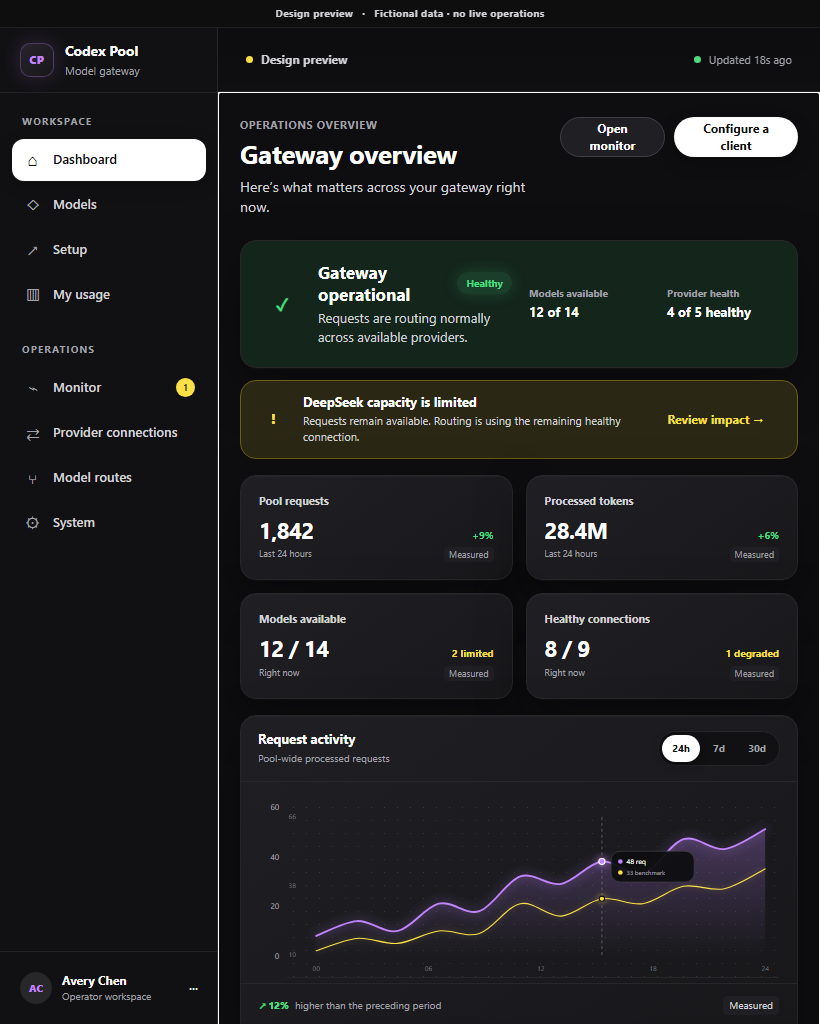
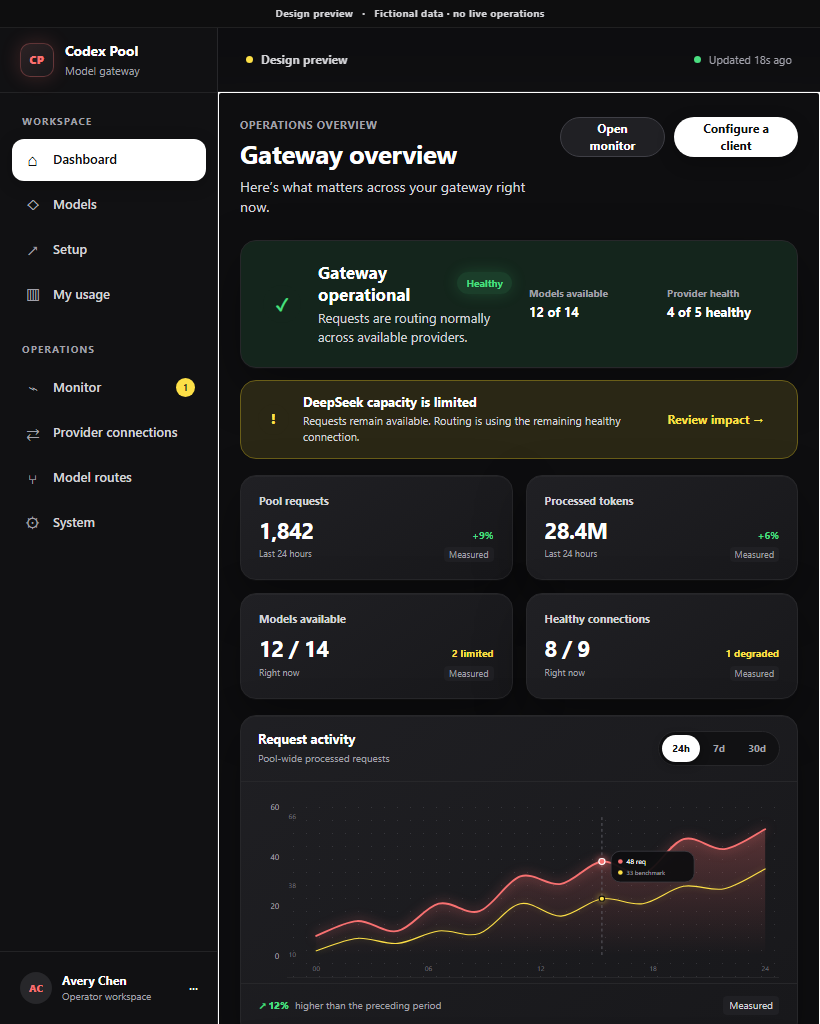
style: replace purple accents with warm red

diff --git a/.product-design/rounds/step-0/primary/styles.css b/.product-design/rounds/step-0/primary/styles.css
@@ -5,26 +5,26 @@
   --bg-canvas: #0e0e10;
   --bg-surface: #18181b;
   --bg-subtle: #202024;
-  --bg-accent: #2a2233;
+  --bg-accent: #311f22;
   --text-primary: #ffffff;
   --text-secondary: #d4d4d8;
   --text-muted: #a1a1aa;
   --border: #27272a;
   --border-strong: #3f3f46;
-  --accent: #c084fc;
-  --accent-hover: #d8b4fe;
+  --accent: #f87171;
+  --accent-hover: #fca5a5;
   --success: #4ade80;
   --success-bg: #14251c;
   --warning: #fde047;
   --warning-bg: #2a2715;
-  --danger: #fb7185;
-  --danger-bg: #30191f;
+  --danger: #ff5c57;
+  --danger-bg: #351718;
   --info: #22d3ee;
   --sidebar: #111113;
   --sidebar-muted: #a1a1aa;
-  --sidebar-active: #27232d;
+  --sidebar-active: #2d2224;
   --shadow: 0 1px 0 rgba(255,255,255,.025), 0 18px 50px rgba(0,0,0,.35);
-  --glow-purple: 0 0 20px rgba(192,132,252,.2);
+  --glow-red: 0 0 20px rgba(248,113,113,.2);
   --glow-green: 0 0 16px rgba(74,222,128,.18);
   --radius: 16px;
   --sidebar-width: 248px;
@@ -64,7 +64,7 @@ body[data-runtime="operator"] .member-only { display: none !important; }
 .sidebar-toggle::after { content: ""; position: absolute; top: 50%; left: 3px; width: 4px; height: 42px; border-radius: 3px; background: #a1a1aa; opacity: 0; transform: translateY(-50%); transition: opacity 120ms ease; }
 .sidebar-toggle:hover::after, .sidebar-toggle:focus-visible::after { opacity: 1; }
 .sidebar-toggle:focus-visible { outline: 3px solid rgba(120,162,255,.58); outline-offset: -1px; }
-.brand-mark { width: 34px; height: 34px; display: grid; place-items: center; border: 1px solid rgba(192,132,252,.3); border-radius: 10px; background: linear-gradient(145deg, #27232d, #18181b); color: #c084fc; box-shadow: var(--glow-purple); font-size: 11px; font-weight: 800; letter-spacing: .06em; }
+.brand-mark { width: 34px; height: 34px; display: grid; place-items: center; border: 1px solid rgba(248,113,113,.3); border-radius: 10px; background: linear-gradient(145deg, #2d2224, #18181b); color: #f87171; box-shadow: var(--glow-red); font-size: 11px; font-weight: 800; letter-spacing: .06em; }
 .brand strong, .brand small { display: block; }
 .brand strong { font-size: 14px; letter-spacing: -.01em; }
 .brand small { margin-top: 1px; color: var(--sidebar-muted); font-size: 11px; }
@@ -100,7 +100,7 @@ body.sidebar-collapsed .nav-count { position: absolute; margin: -25px -29px 0 0;
 body.sidebar-collapsed .user-button { display: flex; justify-content: center; padding: 8px 0; }
 .user-button strong { font-size: 12px; }
 .user-button small { color: var(--sidebar-muted); font-size: 10px; }
-.avatar { width: 32px; height: 32px; display: grid; place-items: center; border: 0; border-radius: 50%; background: #27272a; color: #c084fc; font-size: 10px; font-weight: 800; }
+.avatar { width: 32px; height: 32px; display: grid; place-items: center; border: 0; border-radius: 50%; background: #27272a; color: #f87171; font-size: 10px; font-weight: 800; }
 
 .topbar { position: sticky; top: 28px; z-index: 20; grid-column: 2; height: var(--topbar-height); display: flex; align-items: center; justify-content: space-between; padding: 0 28px; border-bottom: 1px solid var(--border); background: rgba(14,14,16,.88); backdrop-filter: blur(18px); }
 .topbar-context, .topbar-actions, .refresh-state { display: flex; align-items: center; gap: 8px; }
@@ -147,7 +147,7 @@ main { grid-column: 2; min-width: 0; padding: 30px 32px 48px; }
 .focus-readouts strong { margin: 6px 0 2px; font-size: 24px; }
 .focus-readouts small { color: var(--text-secondary); font-size: 9px; }
 .focus-chart { height: 400px; display: flex; align-items: end; gap: 5px; padding: 30px 24px 20px; background-color: rgba(14,14,16,.26); background-image: radial-gradient(circle, rgba(161,161,170,.22) .8px, transparent .9px); background-size: 14px 14px; }
-.focus-chart i, .live-chart i { flex: 1; min-width: 3px; border-radius: 8px 8px 2px 2px; background: linear-gradient(to top, #7e22ce, #c084fc); box-shadow: 0 0 12px rgba(192,132,252,.22); }
+.focus-chart i, .live-chart i { flex: 1; min-width: 3px; border-radius: 8px 8px 2px 2px; background: linear-gradient(to top, #b91c1c, #f87171); box-shadow: 0 0 12px rgba(248,113,113,.22); }
 .secondary-screen-focus > footer { min-height: 48px; display: flex; align-items: center; justify-content: space-between; padding: 0 23px; border-top: 1px solid var(--border); color: var(--text-secondary); font-size: 10px; }
 
 .hero-status { min-height: 102px; display: grid; grid-template-columns: auto minmax(0,1fr) auto; align-items: center; gap: 17px; margin-bottom: 16px; padding: 20px 22px; border: 1px solid #27272a; border-radius: var(--radius); background: #14251c; box-shadow: var(--shadow); }
@@ -198,10 +198,10 @@ body[data-runtime="operator"] .degraded-banner.operator-only { display: grid !im
 .spline-svg { width: 100%; height: 100%; display: block; overflow: visible; }
 .spline-axis { fill: #71717a; font: 9px Inter, system-ui, sans-serif; }
 .spline-area { fill: url(#primary-area); }
-.spline-primary { fill: none; stroke: #c084fc; stroke-width: 2.5; stroke-linecap: round; filter: drop-shadow(0 0 7px rgba(192,132,252,.65)); }
+.spline-primary { fill: none; stroke: #f87171; stroke-width: 2.5; stroke-linecap: round; filter: drop-shadow(0 0 7px rgba(248,113,113,.65)); }
 .spline-secondary { fill: none; stroke: #fde047; stroke-width: 1.5; stroke-linecap: round; filter: drop-shadow(0 0 4px rgba(253,224,71,.3)); }
 .spline-marker { stroke: #71717a; stroke-width: 1; stroke-dasharray: 4 4; }
-.spline-node-primary { fill: #c084fc; stroke: #ffffff; stroke-width: 1.5; filter: drop-shadow(0 0 5px rgba(192,132,252,.9)); }
+.spline-node-primary { fill: #f87171; stroke: #ffffff; stroke-width: 1.5; filter: drop-shadow(0 0 5px rgba(248,113,113,.9)); }
 .spline-node-secondary { fill: #fde047; stroke: #0e0e10; stroke-width: 1.5; filter: drop-shadow(0 0 4px rgba(253,224,71,.65)); }
 .spline-tooltip { fill: rgba(14,14,16,.94); stroke: #3f3f46; stroke-width: 1; }
 .spline-tooltip-text { fill: #ffffff; font: 9px Inter, system-ui, sans-serif; }
@@ -233,7 +233,7 @@ body[data-runtime="operator"] .count-badge.operator-only { display: grid !import
 .provider-row:last-child { border-bottom: 0; }
 .provider-head { min-height: 32px; background: var(--bg-subtle); color: var(--text-muted); font-size: 8px; font-weight: 750; text-transform: uppercase; }
 .provider-name { display: flex; align-items: center; gap: 7px; font-weight: 750; }
-.provider-mark { width: 22px; height: 22px; display: grid; place-items: center; border-radius: 5px; background: #27272a; color: #c084fc; font-size: 8px; font-weight: 800; }
+.provider-mark { width: 22px; height: 22px; display: grid; place-items: center; border-radius: 5px; background: #27272a; color: #f87171; font-size: 8px; font-weight: 800; }
 .provider-state { display: flex; align-items: center; gap: 6px; }
 .provider-state .status-dot.healthy { background: var(--success); }
 .provider-state .status-dot.degraded { background: #fde047; }
@@ -244,7 +244,7 @@ body[data-runtime="operator"] .count-badge.operator-only { display: grid !import
 .quick-actions strong, .quick-actions small { display: block; }
 .quick-actions strong { font-size: 11px; }
 .quick-actions small { margin-top: 2px; color: var(--text-muted); font-size: 9px; }
-.quick-icon { width: 30px; height: 30px; display: grid; place-items: center; border-radius: 50%; background: rgba(192,132,252,.13); color: var(--accent); box-shadow: inset 0 0 0 1px rgba(192,132,252,.12); font-size: 15px; }
+.quick-icon { width: 30px; height: 30px; display: grid; place-items: center; border-radius: 50%; background: rgba(248,113,113,.13); color: var(--accent); box-shadow: inset 0 0 0 1px rgba(248,113,113,.12); font-size: 15px; }
 
 .catalog-panel { overflow: hidden; }
 .model-controls { min-height: 64px; display: grid; grid-template-columns: minmax(220px, 1fr) auto auto; align-items: center; gap: 14px; padding: 11px 15px; border-bottom: 1px solid var(--border); }
@@ -253,7 +253,7 @@ body[data-runtime="operator"] .count-badge.operator-only { display: grid !import
 .search-field input { width: 100%; border: 0; outline: 0; background: transparent; color: var(--text-primary); }
 .filter-row { display: flex; gap: 5px; }
 .filter-row button { min-height: 34px; border: 1px solid var(--border); border-radius: 6px; background: var(--bg-surface); padding: 0 10px; color: var(--text-secondary); font-size: 10px; font-weight: 700; cursor: pointer; }
-.filter-row button.active { border-color: #c084fc; background: var(--bg-accent); color: var(--accent); }
+.filter-row button.active { border-color: #f87171; background: var(--bg-accent); color: var(--accent); }
 #model-count { color: var(--text-muted); font-size: 10px; }
 .model-list { display: grid; }
 .model-card { min-height: 83px; display: grid; grid-template-columns: minmax(220px, 1.3fr) .7fr .75fr .7fr 1fr auto; align-items: center; gap: 13px; padding: 13px 17px; border-bottom: 1px solid var(--border); }
@@ -330,14 +330,14 @@ body[data-runtime="operator"] .count-badge.operator-only { display: grid !import
 .weekly-bars { height: 268px; display: grid; grid-template-columns: repeat(7,1fr); align-items: end; gap: 12px; padding: 24px 22px 15px; background-image: radial-gradient(circle, rgba(161,161,170,.18) .75px, transparent .85px); background-size: 13px 13px; }
 .weekly-bars div { height: 100%; display: grid; grid-template-rows: 1fr auto auto; align-items: end; justify-items: center; gap: 5px; }
 .weekly-bars i { position: relative; width: min(34px,80%); height: var(--bar); border: 1px solid #3f3f46; border-radius: 999px; background: repeating-linear-gradient(135deg, #27272a 0, #27272a 3px, #18181b 3px, #18181b 7px); }
-.weekly-bars div:nth-child(7) i { border-color: rgba(192,132,252,.55); background: linear-gradient(to top, #fde047 0 24%, #c084fc 24% 100%); box-shadow: 0 0 16px rgba(192,132,252,.25); }
+.weekly-bars div:nth-child(7) i { border-color: rgba(248,113,113,.55); background: linear-gradient(to top, #fde047 0 24%, #f87171 24% 100%); box-shadow: 0 0 16px rgba(248,113,113,.25); }
 .weekly-bars div:nth-child(7) strong { color: #fde047; }
 .weekly-bars strong { font-size: 9px; }
 .weekly-bars span { color: var(--text-muted); font-size: 9px; }
 .usage-note { min-height: 43px; display: flex; align-items: center; padding: 0 18px; border-top: 1px solid var(--border); color: var(--text-secondary); font-size: 10px; }
-.status-badge.neutral { background: #27272a; color: #c084fc; }
+.status-badge.neutral { background: #27272a; color: #f87171; }
 .privacy-note { display: grid; grid-template-columns: auto 1fr; gap: 9px; margin: 14px; padding: 10px 11px; border-radius: 7px; background: var(--bg-accent); color: var(--accent); }
-.privacy-note p { margin: 0; color: #c084fc; font-size: 9px; }
+.privacy-note p { margin: 0; color: #f87171; font-size: 9px; }
 .leaderboard-list { list-style: none; margin: 0; padding: 0 14px; }
 .leaderboard-list li { min-height: 52px; display: grid; grid-template-columns: 22px 30px 1fr auto; align-items: center; gap: 9px; border-bottom: 1px solid var(--border); }
 .leaderboard-list li.current-user { margin: 0 -7px; padding: 0 7px; border-radius: 6px; background: var(--bg-accent); }
@@ -360,7 +360,7 @@ body[data-runtime="operator"] .count-badge.operator-only { display: grid !import
 .step-list strong, .step-list small { display: block; }
 .step-list strong { font-size: 11px; }
 .step-list small { margin-top: 2px; color: var(--text-muted); font-size: 9px; }
-.code-preview { margin: 14px 0; border: 1px solid var(--border); border-radius: 7px; background: #0e0e10; color: #c084fc; overflow: hidden; }
+.code-preview { margin: 14px 0; border: 1px solid var(--border); border-radius: 7px; background: #0e0e10; color: #f87171; overflow: hidden; }
 .code-preview header { min-height: 34px; display: flex; align-items: center; justify-content: space-between; padding: 0 11px; border-bottom: 1px solid rgba(255,255,255,.12); font-size: 9px; }
 .code-preview code { display: block; padding: 15px; white-space: pre-wrap; overflow-wrap: anywhere; font: 10px/1.6 ui-monospace, monospace; }
 .workspace-aside-list { display: grid; }
@@ -384,7 +384,7 @@ body[data-runtime="operator"] .count-badge.operator-only { display: grid !import
 
 .bottom-navigation { display: none; }
 .mobile-drawer, .drawer-backdrop { display: none; }
-.toast { position: fixed; right: 24px; bottom: 24px; z-index: 90; max-width: 320px; border-radius: 8px; background: #27272a; color: #c084fc; padding: 11px 14px; box-shadow: 0 12px 32px rgba(0,0,0,.5); font-size: 11px; }
+.toast { position: fixed; right: 24px; bottom: 24px; z-index: 90; max-width: 320px; border-radius: 8px; background: #27272a; color: #f87171; padding: 11px 14px; box-shadow: 0 12px 32px rgba(0,0,0,.5); font-size: 11px; }
 
 @media (max-width: 1040px) {
   :root { --sidebar-width: 218px; }

diff --git a/.product-design/rounds/step-0/primary/app.js b/.product-design/rounds/step-0/primary/app.js
@@ -74,7 +74,7 @@ function renderSpline(target, primary, secondary, options = {}) {
   const [activeX, activeY] = a[active], [, secondaryY] = b[active];
   const tooltipX = Math.min(width - 126, Math.max(left + 5, activeX + 12)), tooltipY = Math.max(8, Math.min(activeY, secondaryY) - 14);
   const gradient = `primary-area-${++splineSequence}`, xLabels = options.xLabels || ["1", "8", "16", "24", "31"], yLabels = [max, (max+min)/2, min];
-  target.innerHTML = `<svg class="spline-svg" viewBox="0 0 ${width} ${height}" preserveAspectRatio="none" aria-hidden="true"><defs><linearGradient id="${gradient}" x1="0" y1="0" x2="0" y2="1"><stop offset="0" stop-color="#c084fc" stop-opacity=".28"/><stop offset="1" stop-color="#c084fc" stop-opacity="0"/></linearGradient></defs><path d="${areaPath}" fill="url(#${gradient})"/><path class="spline-secondary" d="${secondaryPath}"/><path class="spline-primary" d="${primaryPath}"/><line class="spline-marker" x1="${activeX}" y1="${top}" x2="${activeX}" y2="${height-bottom}"/><circle class="spline-node-primary" cx="${activeX}" cy="${activeY}" r="4"/><circle class="spline-node-secondary" cx="${activeX}" cy="${secondaryY}" r="3.5"/><g transform="translate(${tooltipX} ${tooltipY})"><rect class="spline-tooltip" width="108" height="42" rx="12"/><circle cx="12" cy="14" r="3" fill="#c084fc"/><text class="spline-tooltip-text" x="20" y="17">${primary[active]} ${options.primaryUnit || "req"}</text><circle cx="12" cy="29" r="3" fill="#fde047"/><text class="spline-tooltip-sub" x="20" y="32">${secondary[active]} benchmark</text></g>${yLabels.map((value,index)=>`<text class="spline-axis" x="2" y="${top+index*(height-top-bottom)/2+3}">${Math.round(value)}</text>`).join("")}${xLabels.map((label,index)=>`<text class="spline-axis" text-anchor="middle" x="${left+index*(width-left-right)/(xLabels.length-1)}" y="${height-8}">${label}</text>`).join("")}</svg>`;
+  target.innerHTML = `<svg class="spline-svg" viewBox="0 0 ${width} ${height}" preserveAspectRatio="none" aria-hidden="true"><defs><linearGradient id="${gradient}" x1="0" y1="0" x2="0" y2="1"><stop offset="0" stop-color="#f87171" stop-opacity=".28"/><stop offset="1" stop-color="#f87171" stop-opacity="0"/></linearGradient></defs><path d="${areaPath}" fill="url(#${gradient})"/><path class="spline-secondary" d="${secondaryPath}"/><path class="spline-primary" d="${primaryPath}"/><line class="spline-marker" x1="${activeX}" y1="${top}" x2="${activeX}" y2="${height-bottom}"/><circle class="spline-node-primary" cx="${activeX}" cy="${activeY}" r="4"/><circle class="spline-node-secondary" cx="${activeX}" cy="${secondaryY}" r="3.5"/><g transform="translate(${tooltipX} ${tooltipY})"><rect class="spline-tooltip" width="108" height="42" rx="12"/><circle cx="12" cy="14" r="3" fill="#f87171"/><text class="spline-tooltip-text" x="20" y="17">${primary[active]} ${options.primaryUnit || "req"}</text><circle cx="12" cy="29" r="3" fill="#fde047"/><text class="spline-tooltip-sub" x="20" y="32">${secondary[active]} benchmark</text></g>${yLabels.map((value,index)=>`<text class="spline-axis" x="2" y="${top+index*(height-top-bottom)/2+3}">${Math.round(value)}</text>`).join("")}${xLabels.map((label,index)=>`<text class="spline-axis" text-anchor="middle" x="${left+index*(width-left-right)/(xLabels.length-1)}" y="${height-8}">${label}</text>`).join("")}</svg>`;
 }
 
 function renderChart(range) {

diff --git a/.product-design/direction/product-truth.md b/.product-design/direction/product-truth.md
@@ -136,7 +136,7 @@ The supplied Pale Phthalo Blue, Morning Tea, Granite Canyon, Avocado Peel, Gluon
 | Primary text / selected pill | `#ffffff` |
 | Secondary text | `#a1a1aa` |
 | Positive health and trend | `#4ade80` |
-| Primary chart/action accent | `#c084fc` |
+| Primary chart/action accent | `#f87171` |
 | Comparison and warning accent | `#fde047` |
 | Information and tertiary series | `#22d3ee` |
 
@@ -145,7 +145,7 @@ Visual rules:
 - compose desktop analytics as a rounded bento grid on a full-viewport dark product canvas;
 - use pill navigation, segmented controls, rounded cards, inner highlights, soft shadows, and restrained glow;
 - establish hierarchy through large white metrics, muted labels, and compact support copy;
-- render continuous time-series as smooth dual-spline charts: purple primary line and area glow, thin yellow comparison line, dot-matrix field, minimal axes, dashed active marker, glowing nodes, and a dark pill tooltip;
+- render continuous time-series as smooth dual-spline charts: red primary line and area glow, thin yellow comparison line, dot-matrix field, minimal axes, dashed active marker, glowing nodes, and a dark pill tooltip;
 - reserve textured pill/capsule bars for discrete category or day comparisons, with selective solid color on the active peak;
 - use proportional bubble clusters only for demographic composition and halftone maps only for genuine geographic data—never as decoration;
 - preserve focused mobile/tablet compositions instead of shrinking the complete bento dashboard;

diff --git a/.product-design/rounds/step-0/primary/README.md b/.product-design/rounds/step-0/primary/README.md
@@ -12,8 +12,8 @@ This single artifact tests the Phase 9 interaction architecture before visual al
 - detailed operator Monitor;
 - representative Models and My usage experiences, including a privacy-conscious weekly leaderboard;
 - accessible collapsible desktop navigation and compact mobile-landscape navigation;
-- Fitonist-inspired dark bento visual system on a full-viewport product canvas, with pill controls, white metric hierarchy, muted labels, and green/purple/yellow/cyan semantic accents;
-- smooth dual-spline charts for continuous activity, with purple area glow, yellow comparison, dot grid, active marker, nodes, and tooltip;
+- Fitonist-inspired dark bento visual system on a full-viewport product canvas, with pill controls, white metric hierarchy, muted labels, and green/red/yellow/cyan semantic accents;
+- smooth dual-spline charts for continuous activity, with red area glow, yellow comparison, dot grid, active marker, nodes, and tooltip;
 - textured pill bars reserved for discrete weekly comparisons;
 - responsive desktop, tablet portrait, tablet-landscape secondary-screen, portrait-mobile, and landscape-mobile hierarchy;
 - role-aware compact defaults: operator mobile opens Monitor, member landscape opens My usage, and tablet landscape opens a focused live graph;
